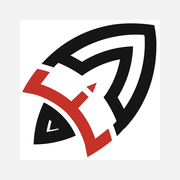
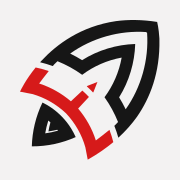
Ship the brand mark as vector
Uses the supplied ei_logo_on_light/on_dark SVGs, swapped by theme in the nav.
favicon.svg carries both ink values behind a prefers-color-scheme rule so one
file serves either theme, and the touch icon is re-rasterized from the vector.
Drops the PNG mark.

diff --git a/docs/adr/0003-modernist-design-system.md b/docs/adr/0003-modernist-design-system.md
@@ -48,7 +48,10 @@ Adopt the Modernist system across every template, not only the landing page.
   system documents for chrome and large text, but not AA for the 15px button labels the design
   specifies. The Lighthouse accessibility gate is therefore 0.9, not 1.0. Repainting the primary
   button is a designer decision, not ours — this is the open item to take back to them.
-- The brand mark ships as the supplied PNG. An SVG is needed before launch; the PNG will not hold
-  up at the 44px nav bezel on retina, and the favicon is the same file.
+- The brand mark ships as vector, in the designer's two variants: `ei_logo_on_light.svg` and
+  `ei_logo_on_dark.svg`. The nav renders whichever matches the active theme. `favicon.svg` carries
+  both ink values behind a `prefers-color-scheme` rule so one file serves both, and the red is left
+  exactly as supplied. Note the mark's red is `#D61A1A`, not the system accent `#ec3013` — the
+  handoff says not to recolor the mark, so it keeps its own red.
 - Two self-hosted fonts cost roughly 56 KB, paid once and cached. The alternative, a Google Fonts
   CDN request, is render-blocking and third-party.

diff --git a/next-steps.md b/next-steps.md
@@ -75,8 +75,8 @@ The landing page now carries the handoff's copy. Three things need your confirma
   placeholders. So is `SLOTS Q3 · 2 OPEN` in the status readout.
 - **Mailbox.** Everything — CTAs, the footer, app support pages — points at
   `go@engineignite.com`. Confirm it exists and is monitored.
-- **Brand mark.** `public/engine-ignite-mark.png` is the supplied PNG, and it is also the favicon.
-  Get an SVG from the designer — the PNG will not hold up at the 44px nav bezel on retina.
+- **Brand mark.** Done — `ei_logo_on_light.svg` and `ei_logo_on_dark.svg` are in `public/`, the
+  nav swaps them by theme, and `favicon.svg` follows the OS theme.
 
 One item to take back to the designer: the accent `#ec3013` behind `#f3f2f2` button labels
 measures **3.79:1**. That clears the 3:1 the design system documents for chrome, but not WCAG AA
